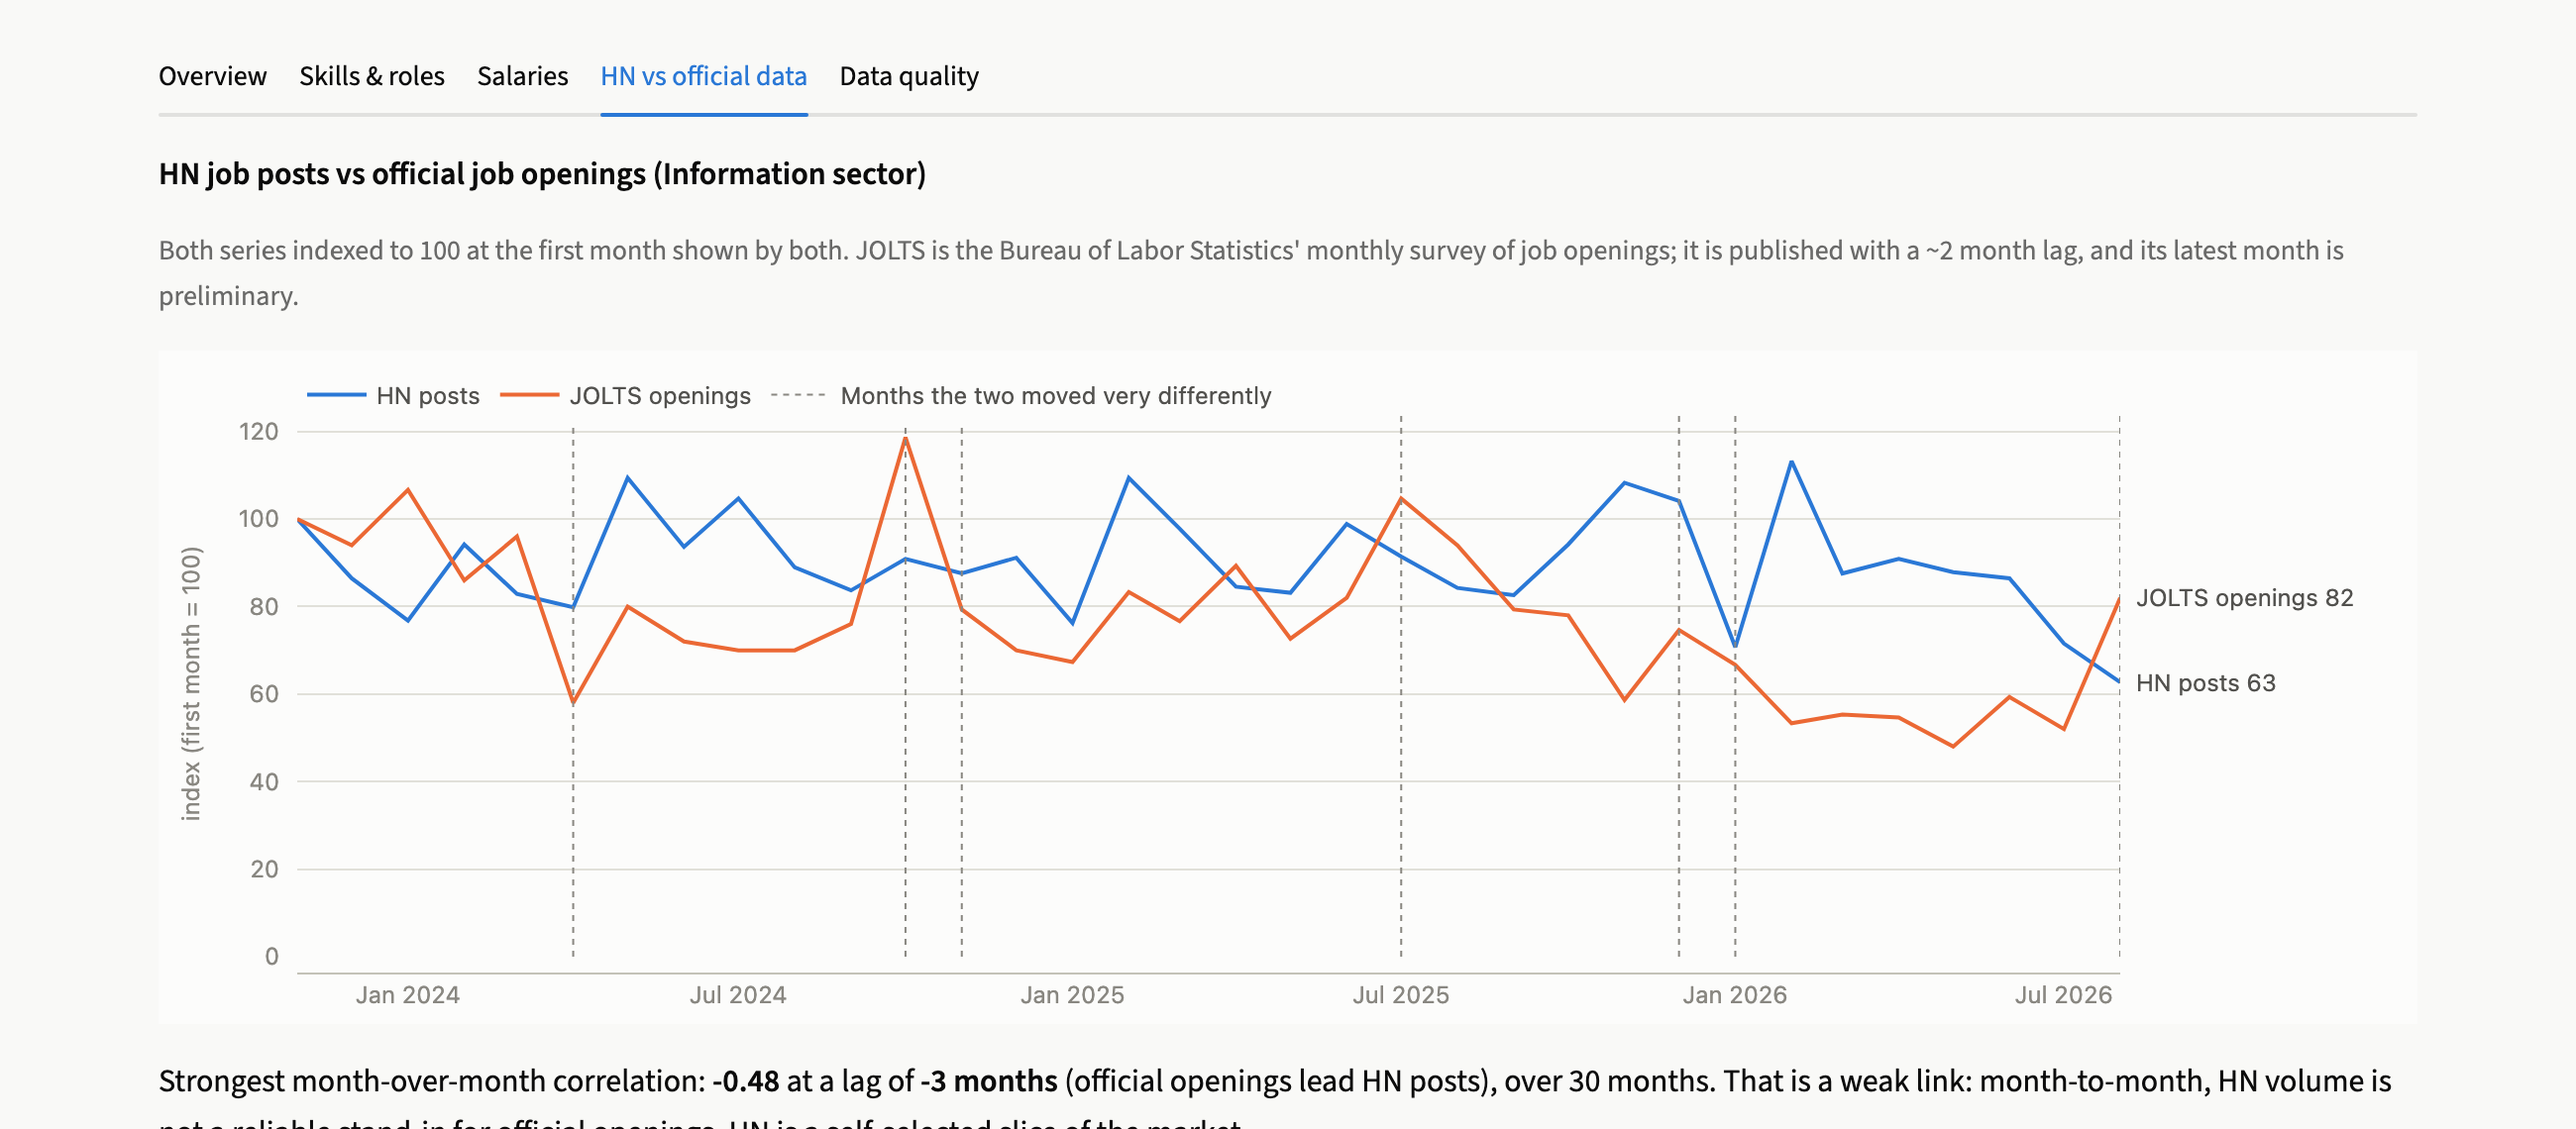
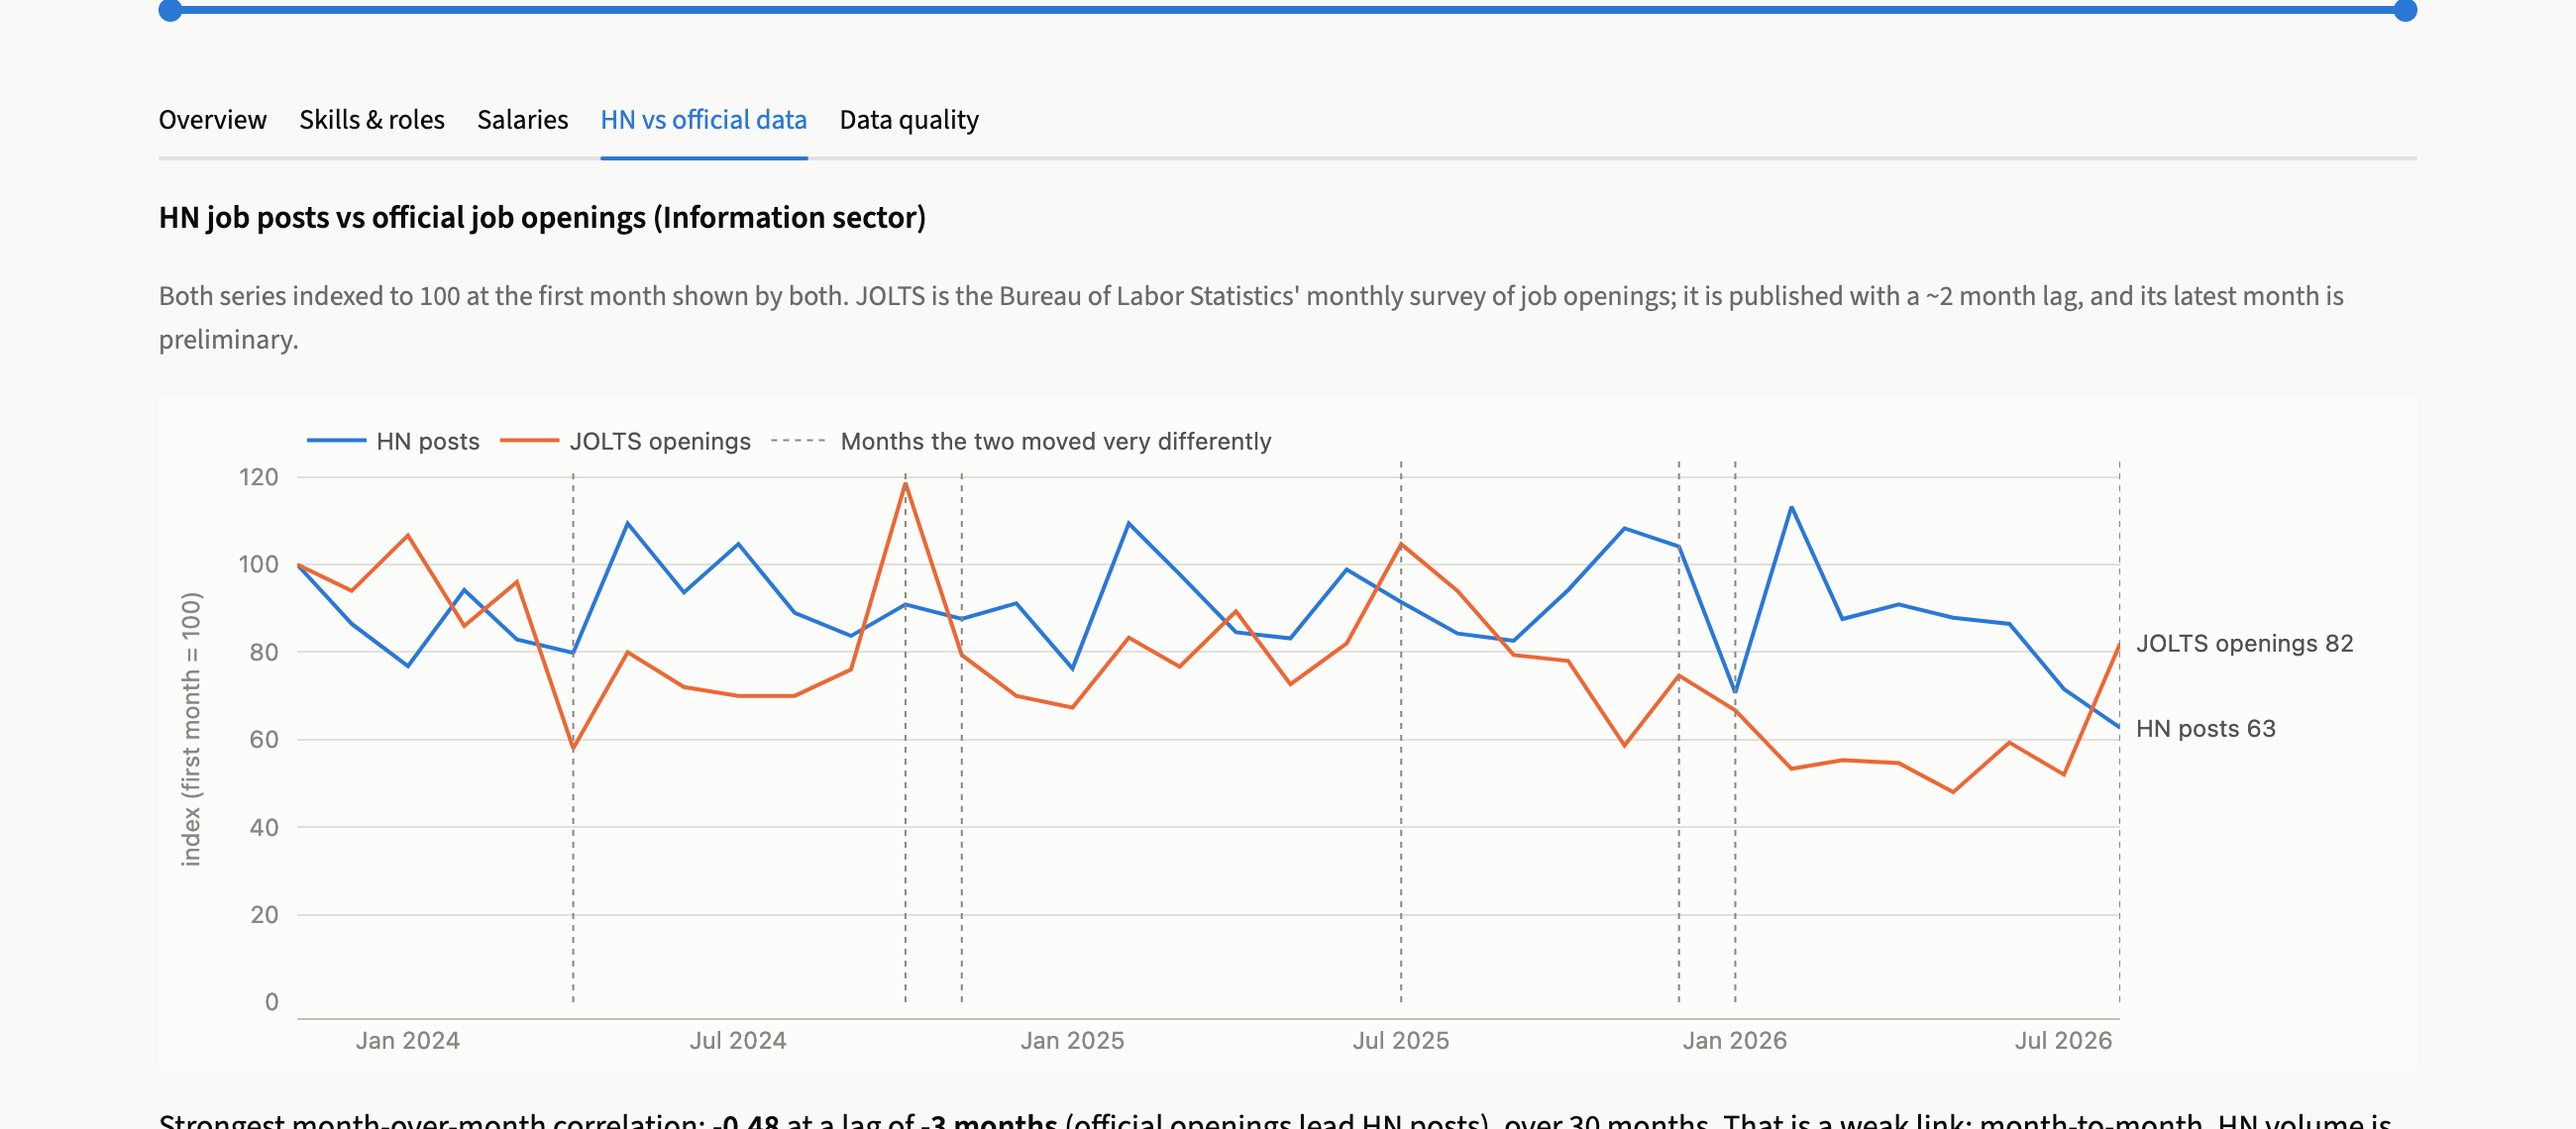
audit: apply human spot-check of 20 labels; refresh screenshots
The reviewer agreed with 18 of 20 posts and corrected one seniority field on
each of the other 2 (158/160 fields, 99%). Scores are unchanged: work mode 98%,
salary detection 98%, salary values 93%, seniority 91%, role families 70%.
README screenshots recaptured from the live app (remote 55% after the audit fix).

diff --git a/README.md b/README.md
@@ -129,8 +129,10 @@ What it found:
   are still counted as posts, and that's a documented gap.
 - Role families stay at 70%: posts listing many roles are the hard case for rules.
 
-How far to trust these numbers: labels were drafted by Claude and are being spot-checked
-by a human (20 of 50). The fixes were made after seeing these posts, so "after" scores are
+How far to trust these numbers: labels were drafted by Claude, and a human then
+spot-checked 20 of the 50. The reviewer agreed with 18 posts as labeled and corrected one
+field on each of the other 2, both seniority (158 of 160 fields agreed, 99%). The
+corrections are applied before scoring. The fixes were made after seeing these posts, so "after" scores are
 optimistic. As an out-of-sample check, 12 randomly chosen posts whose labels changed,
 none of them in the audit, were all changed correctly.
 
